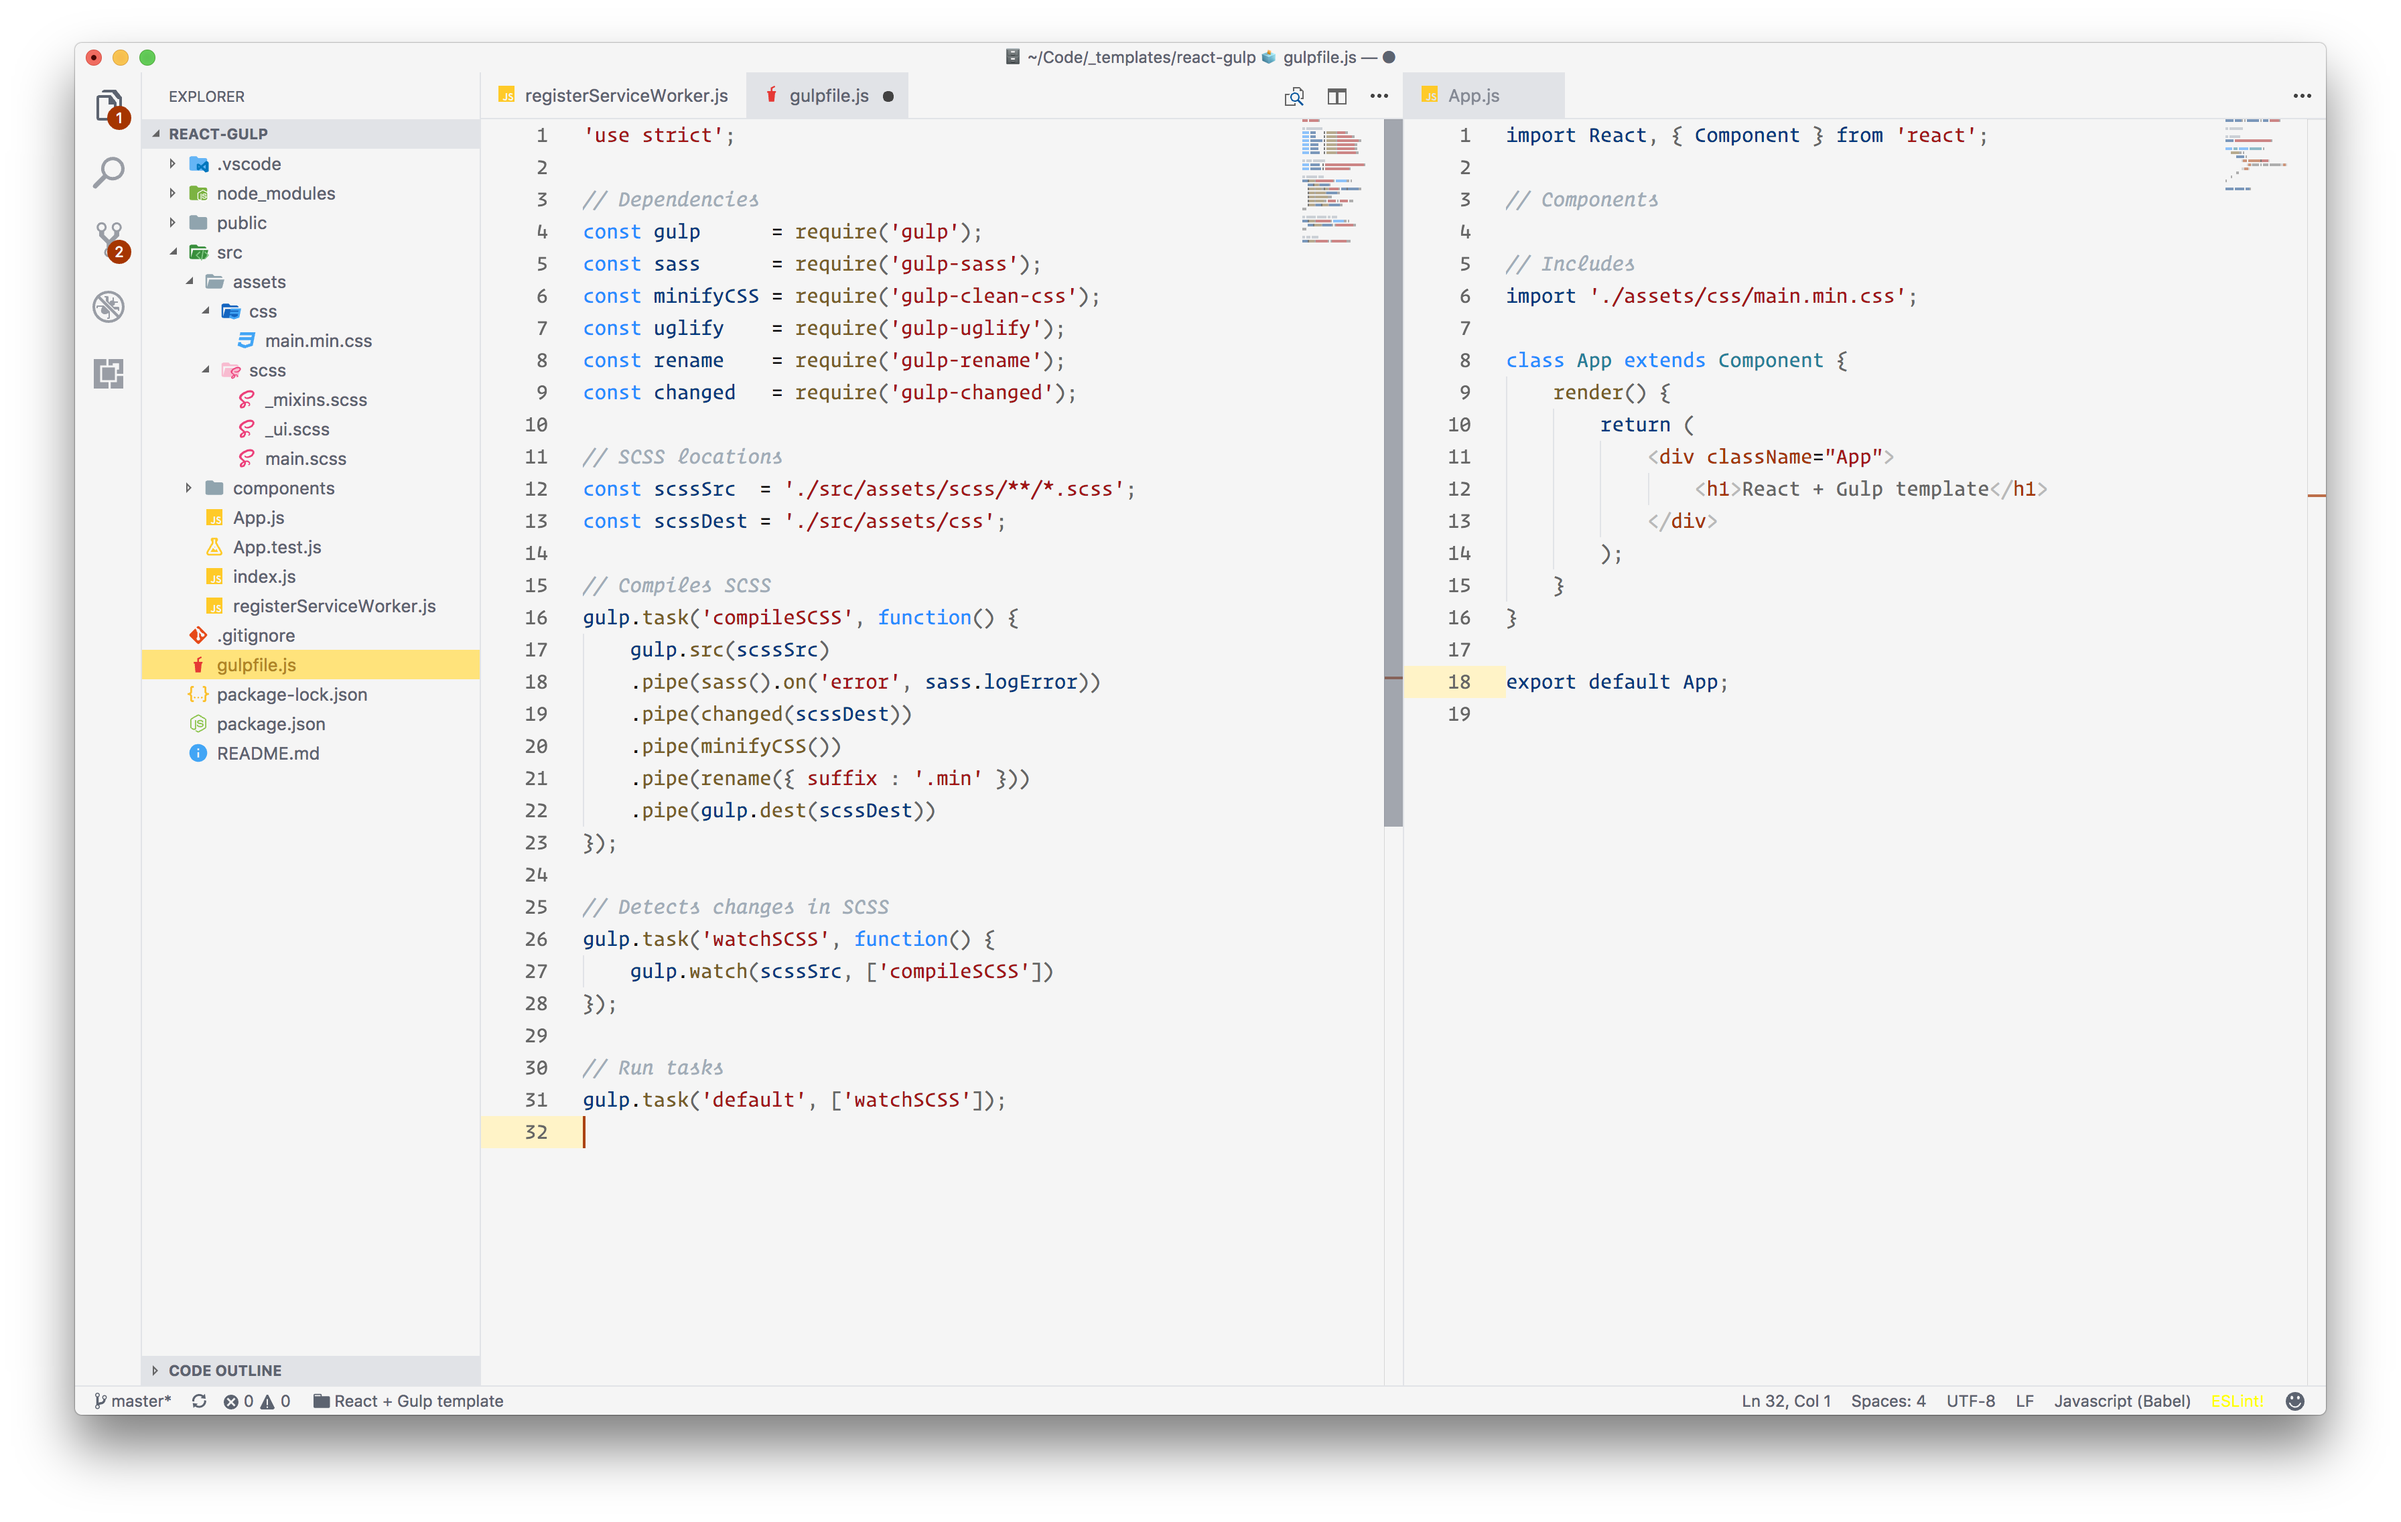
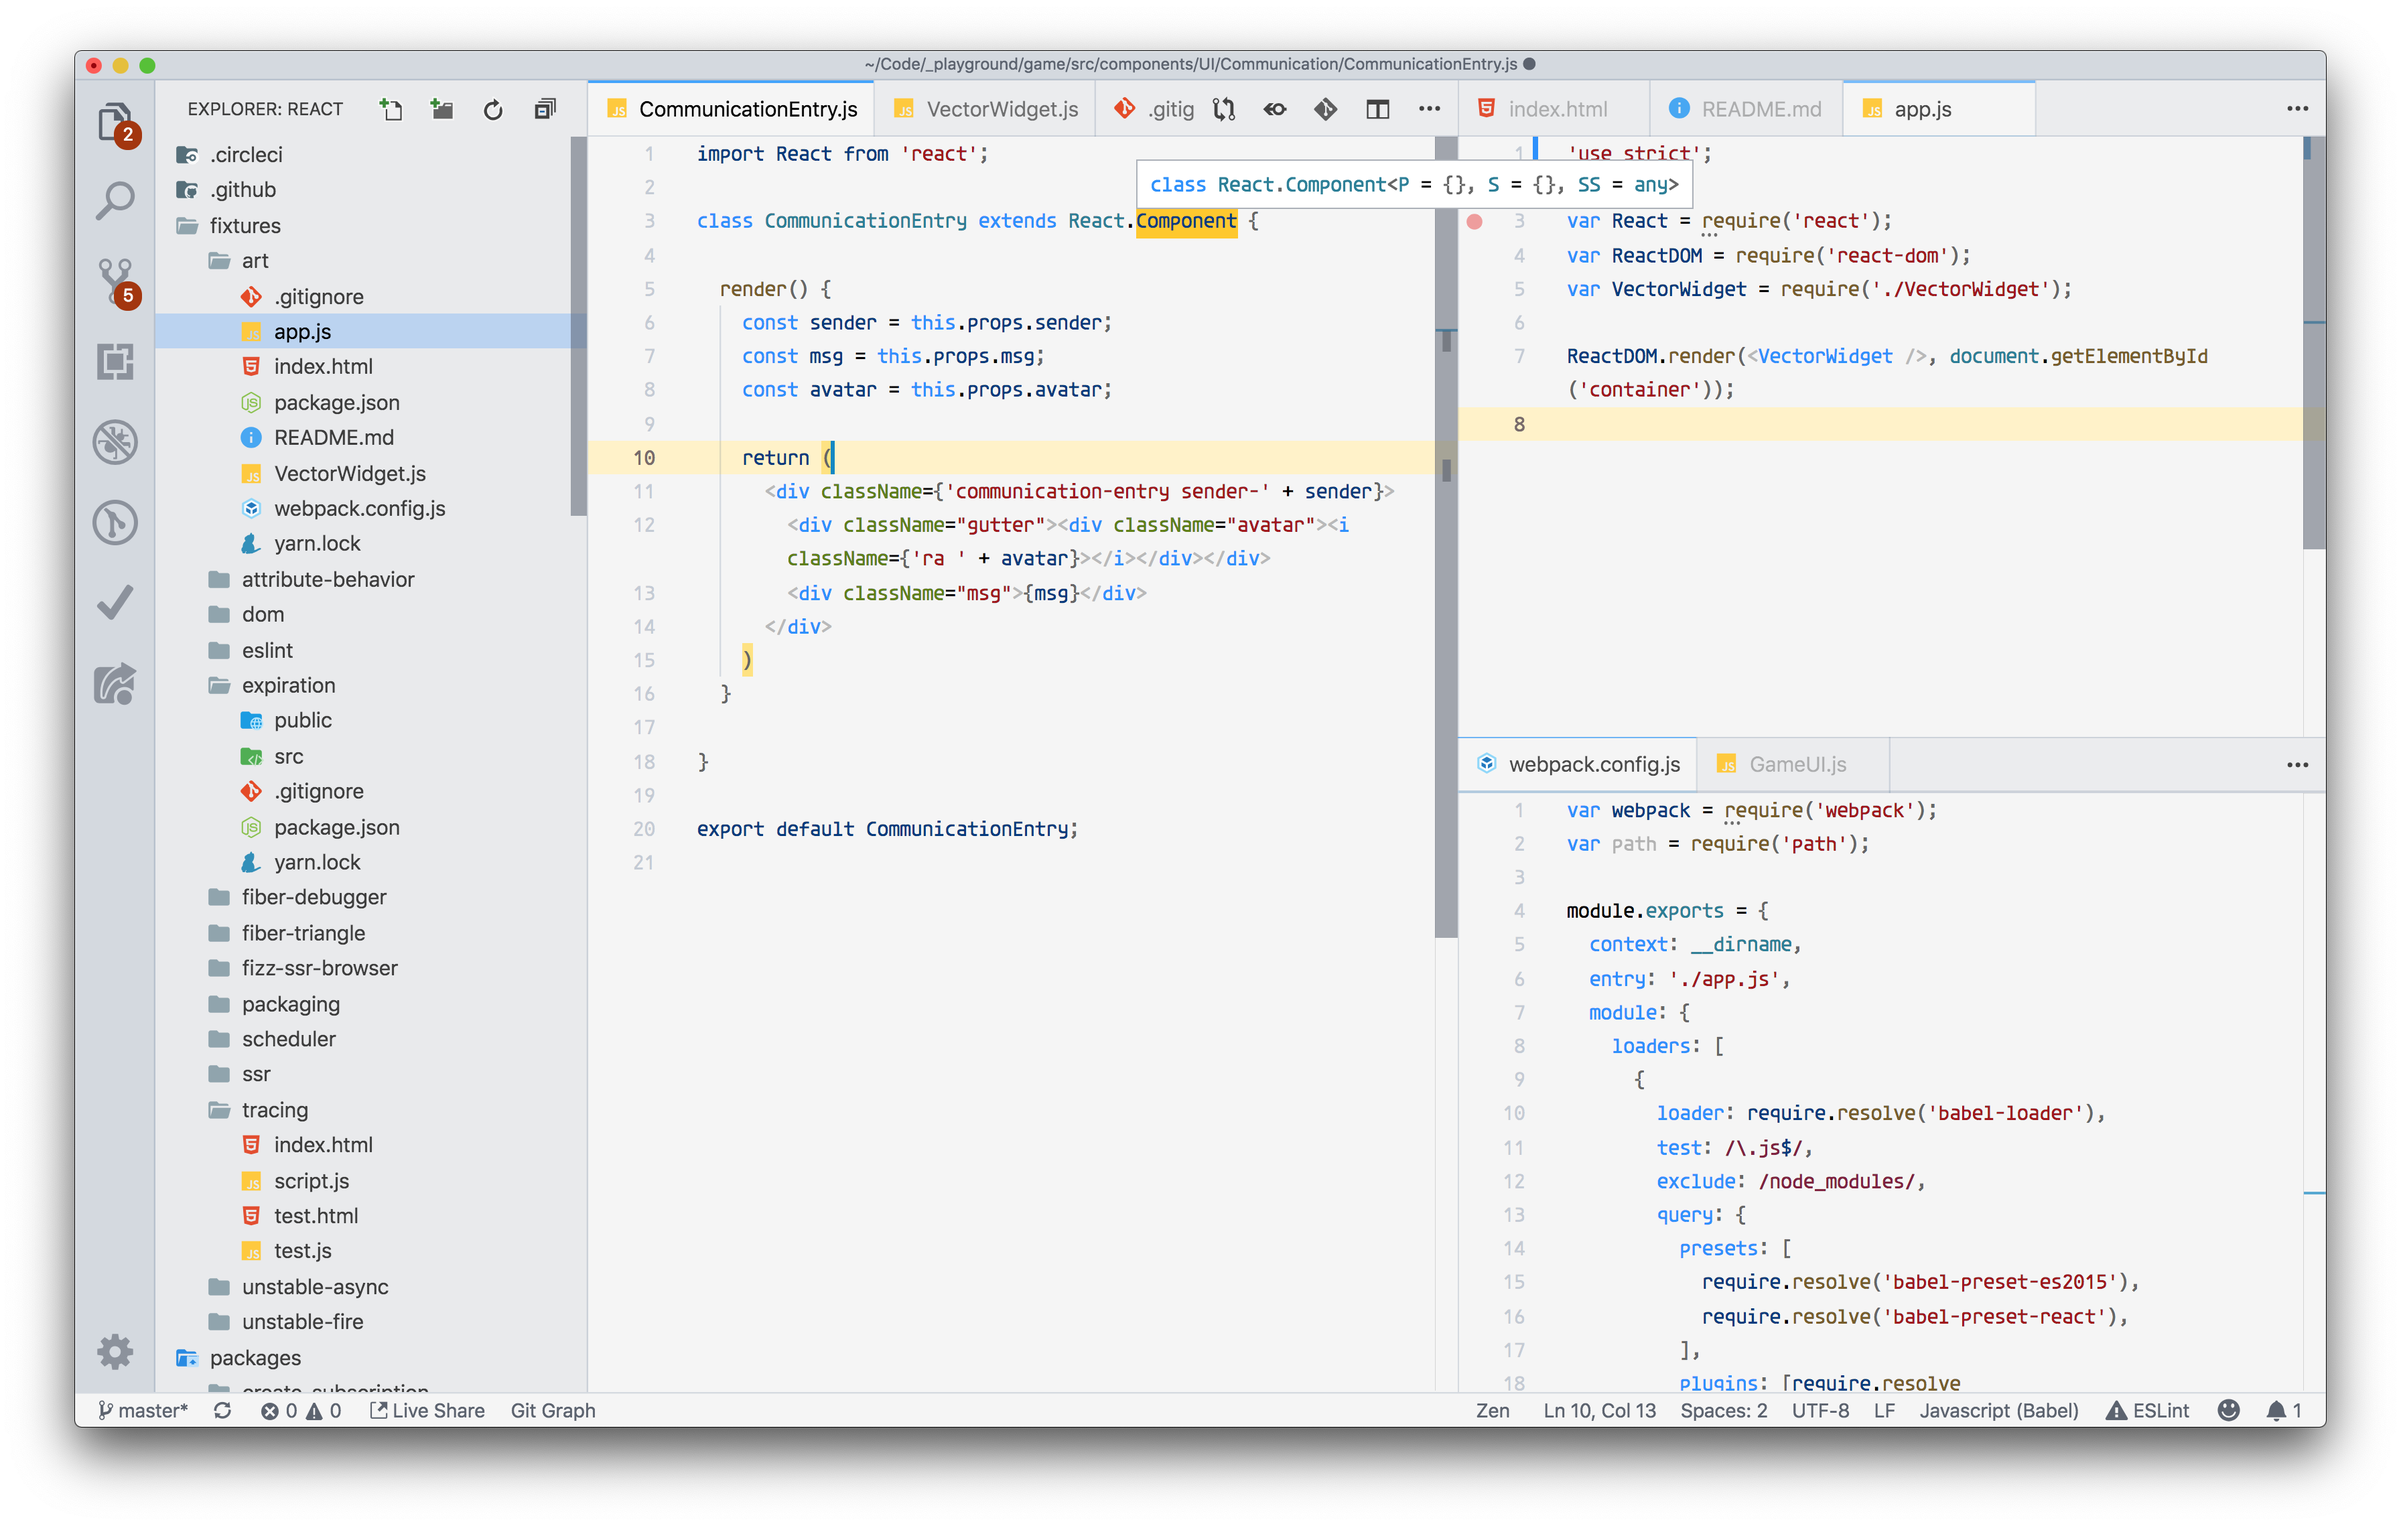
Add borders, shadows and change background colors to separate panels and editors

diff --git a/README.md b/README.md
@@ -8,4 +8,6 @@ Enjoy!
 
 ## Screenshots
 
-![Screenshot](https://raw.githubusercontent.com/perragnar/february-frost/master/images/screenshots/screenshot-01.png)
+![Screenshot 1](https://raw.githubusercontent.com/perragnar/february-frost/master/images/screenshots/screenshot-01.png)
+
+![Screenshot 2](https://raw.githubusercontent.com/perragnar/february-frost/master/images/screenshots/screenshot-02.png)

diff --git a/changelog.md b/changelog.md
@@ -1,5 +1,10 @@
 # Change Log
 
+## [0.2.0]
+
+- Added borders, shadows and changed background colors to separate panels and editors.
+- Updated screenshots.
+
 ## [0.1.7]
 
 - Minor color tweaks.
